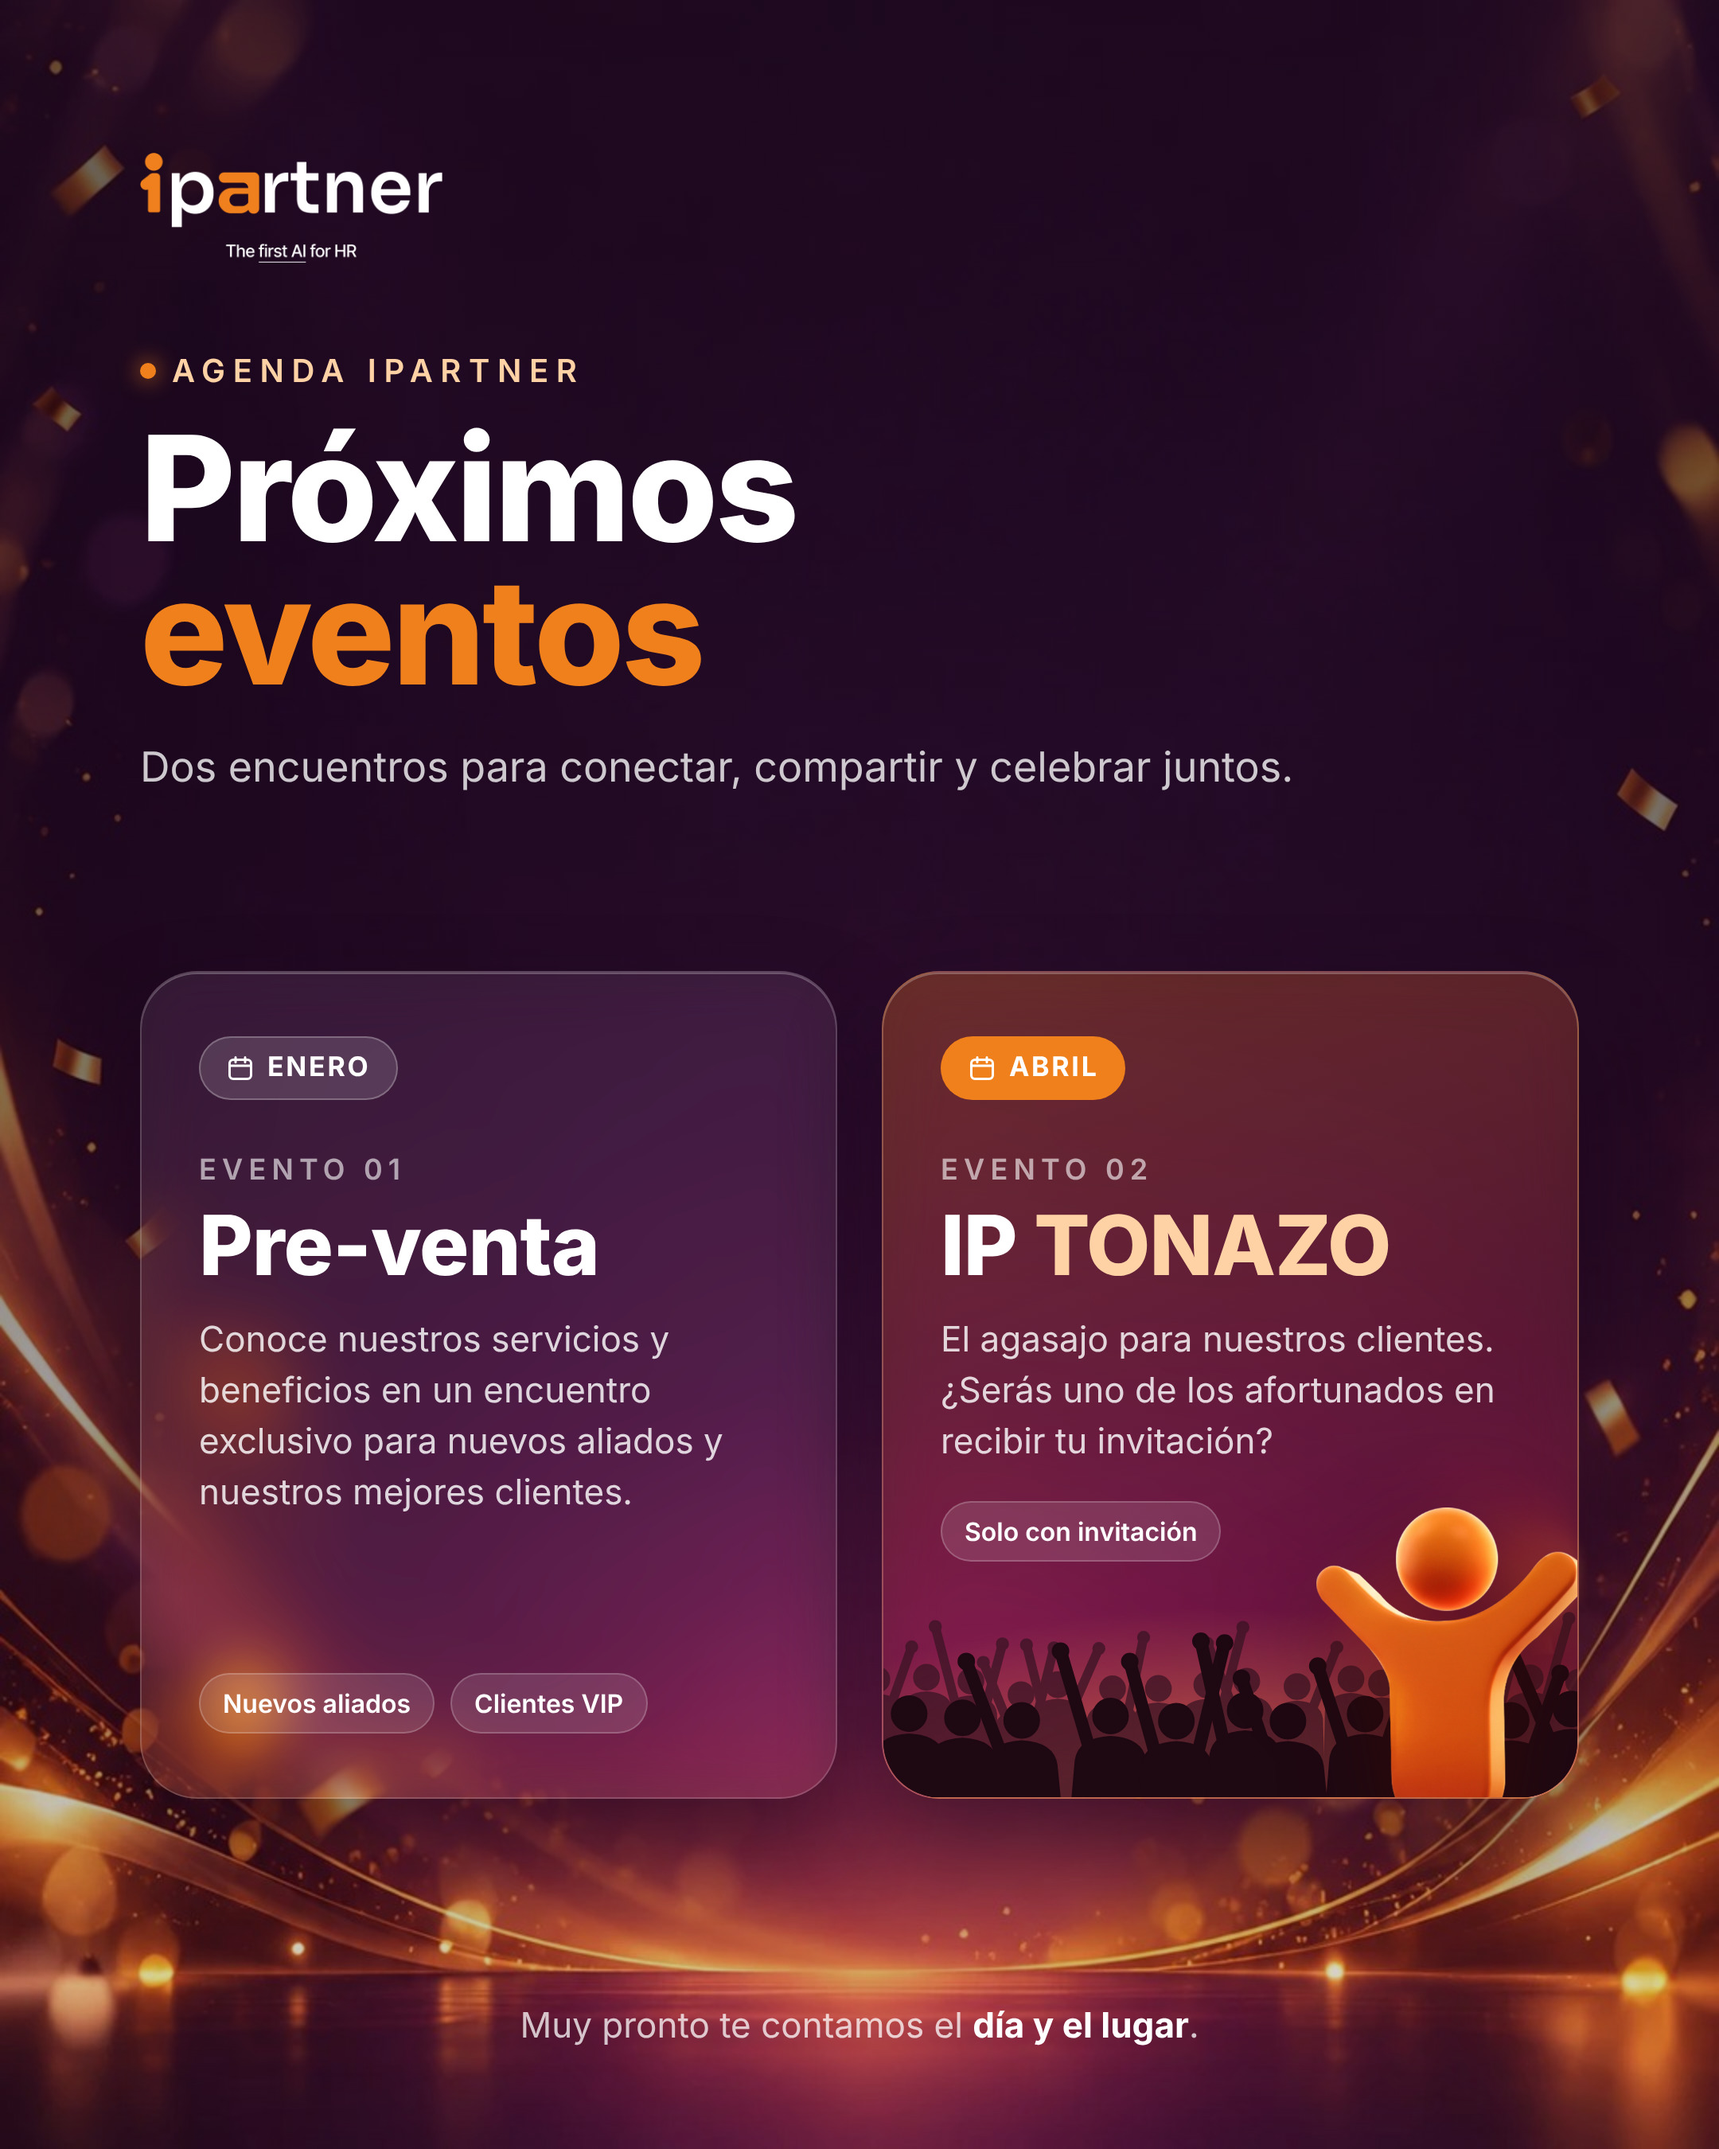
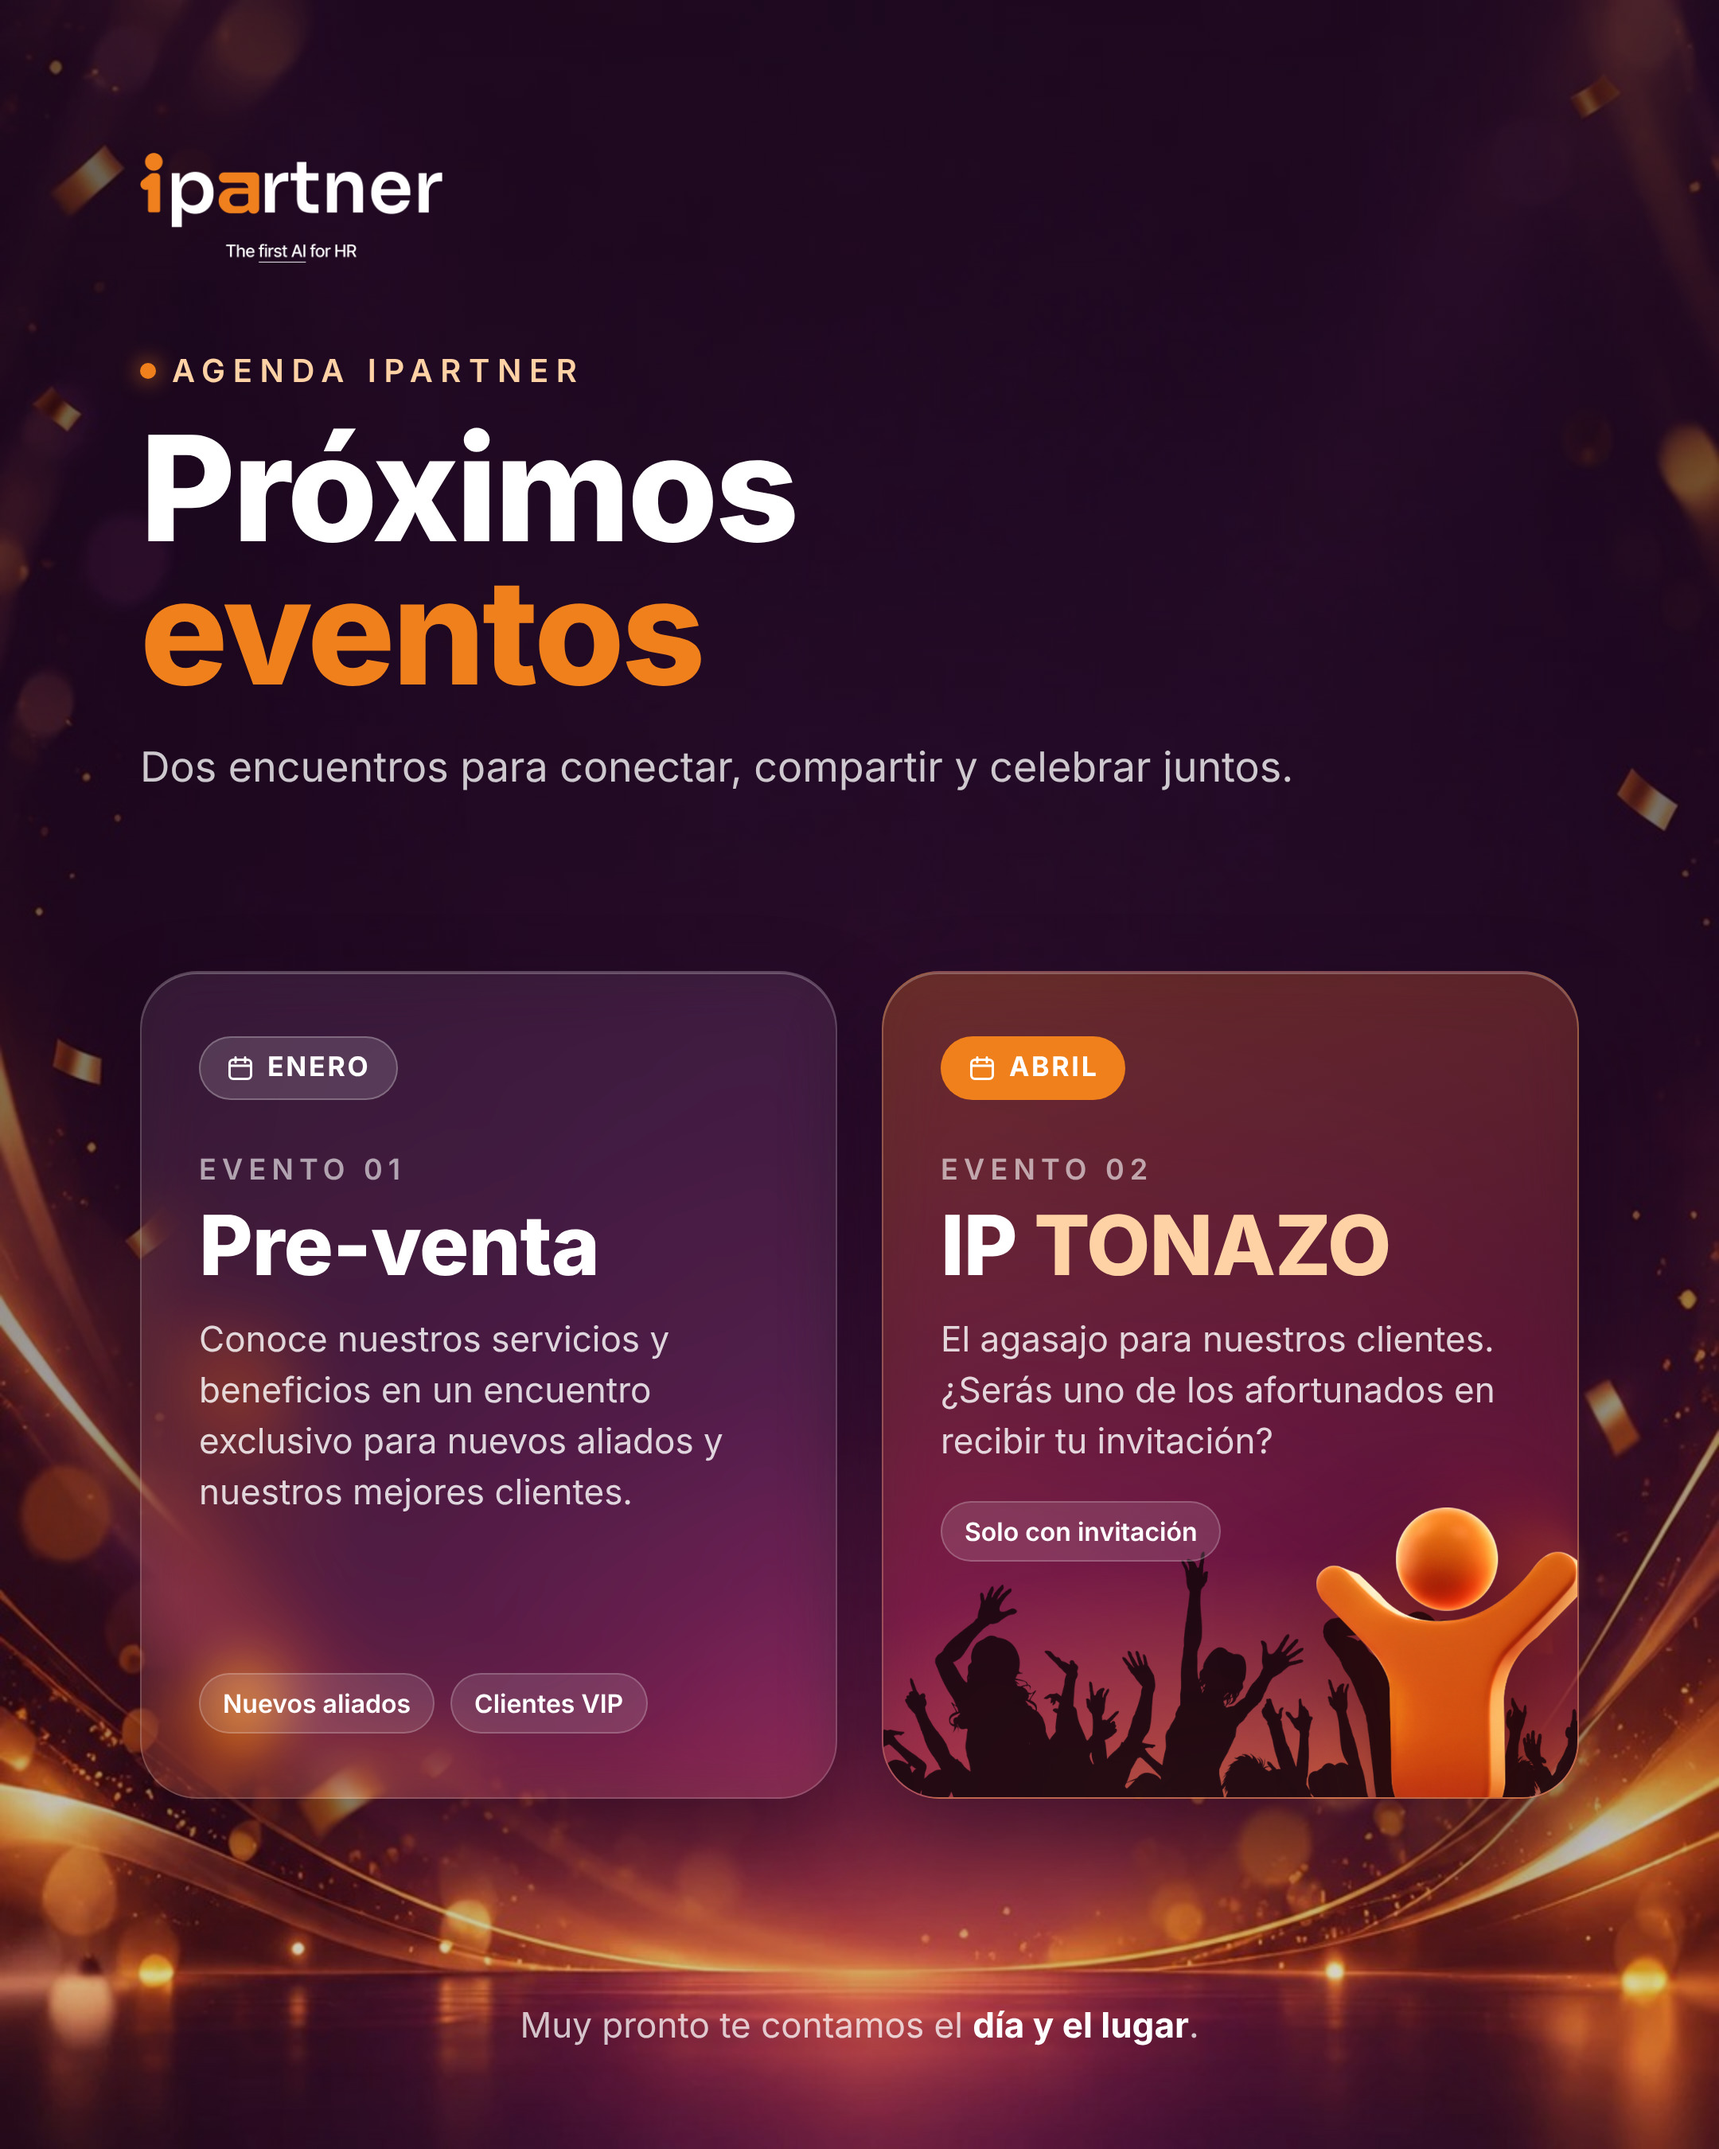
Flyer eventos: público con silueta real en IP TONAZO
Claude-Session: https://claude.ai/code/session_01KT8NTYu2Ge9wagQ7cc8Njn

Changed region(s): [[0.4963, 0.7156, 0.8065, 0.84], [0.8685, 0.7467, 0.9306, 0.84]]

diff --git a/eventos/flyer-eventos.html b/eventos/flyer-eventos.html
@@ -34,8 +34,8 @@ h2{margin-top:10px;font-size:52px;line-height:1.02;font-weight:800;letter-spacin
 .chip{font-size:16px;font-weight:600;padding:8px 14px;border-radius:999px;background:rgba(255,255,255,.12);border:1px solid rgba(255,255,255,.2)}
 .munieco{position:absolute;right:-6px;bottom:-24px;width:170px;z-index:2;filter:drop-shadow(0 20px 30px rgba(60,10,0,.5))}
 .mini{position:absolute;filter:saturate(.8) brightness(.8)}.m1{width:84px;right:196px;bottom:-10px;opacity:.5}.m2{width:70px;right:262px;bottom:-6px;opacity:.35}.m3{width:62px;right:320px;bottom:-4px;opacity:.25}.m4{width:76px;right:150px;bottom:110px;opacity:0}
-.tonazo .chips{position:static;margin-top:20px;max-width:none}
-.publico{position:absolute;left:0;right:0;bottom:0;width:100%;height:170px;z-index:1}
+.tonazo .chips{position:relative;left:auto;bottom:auto;z-index:3;margin-top:20px;max-width:none}
+.publico{position:absolute;left:0;right:0;bottom:0;height:170px;z-index:1;overflow:hidden;background:radial-gradient(70% 90% at 50% 100%,rgba(255,154,60,.45),rgba(255,154,60,0))}.publico img{position:absolute;left:-10px;bottom:-62px;width:calc(100% + 20px);opacity:.92}
 .pie{position:absolute;left:0;right:0;bottom:64px;text-align:center;font-size:22px;color:rgba(255,255,255,.75)}
 .pie b{color:#fff}
 </style></head><body>
@@ -59,11 +59,7 @@ h2{margin-top:10px;font-size:52px;line-height:1.02;font-weight:800;letter-spacin
       <h2>IP <em>TONAZO</em></h2>
       <p class="desc">El agasajo para nuestros clientes. ¿Serás uno de los afortunados en recibir tu invitación?</p>
       <div class="chips"><span class="chip">Solo con invitación</span></div>
-      <svg class="publico" viewBox="0 0 440 170" preserveAspectRatio="xMidYMax slice" aria-hidden="true">
-<defs><radialGradient id="luz" cx="50%" cy="100%" r="70%"><stop offset="0" stop-color="#ff9a3c" stop-opacity=".55"/><stop offset="1" stop-color="#ff9a3c" stop-opacity="0"/></radialGradient></defs>
-<rect width="440" height="170" fill="url(#luz)"/>
-<g fill="#3a1424" stroke="#3a1424" opacity=".75"><circle cx="-2.1" cy="96.1" r="7.9"/><path d="M-19.4 170 L-18.0 116.2 Q-16.5 106.1 -2.1 105.4 Q12.3 106.1 13.7 116.2 L15.2 170 Z"/><path d="M-12.2 109.0 L-21.5 67.0" stroke-width="5.8" stroke-linecap="round"/><circle cx="-21.5" cy="67.0" r="3.6"/><path d="M8.0 109.0 L19.8 75.6" stroke-width="5.8" stroke-linecap="round"/><circle cx="19.8" cy="75.6" r="3.6"/><circle cx="29.1" cy="94.7" r="7.9"/><path d="M11.8 170 L13.2 114.8 Q14.7 104.8 29.1 104.0 Q43.5 104.8 44.9 114.8 L46.4 170 Z"/><circle cx="57.0" cy="97.1" r="7.9"/><path d="M39.7 170 L41.2 117.3 Q42.6 107.2 57.0 106.5 Q71.4 107.2 72.9 117.3 L74.3 170 Z"/><path d="M46.9 110.1 L34.6 62.8" stroke-width="5.8" stroke-linecap="round"/><circle cx="34.6" cy="62.8" r="3.6"/><path d="M67.1 110.1 L76.8 73.7" stroke-width="5.8" stroke-linecap="round"/><circle cx="76.8" cy="73.7" r="3.6"/><circle cx="88.5" cy="105.6" r="7.9"/><path d="M71.2 170 L72.7 125.8 Q74.1 115.7 88.5 115.0 Q102.9 115.7 104.4 125.8 L105.8 170 Z"/><path d="M78.4 118.6 L64.8 85.3" stroke-width="5.8" stroke-linecap="round"/><circle cx="64.8" cy="85.3" r="3.6"/><path d="M98.6 118.6 L109.2 76.2" stroke-width="5.8" stroke-linecap="round"/><circle cx="109.2" cy="76.2" r="3.6"/><circle cx="111.6" cy="99.3" r="7.9"/><path d="M94.3 170 L95.8 119.4 Q97.2 109.3 111.6 108.6 Q126.0 109.3 127.4 119.4 L128.9 170 Z"/><path d="M101.5 112.2 L91.9 74.3" stroke-width="5.8" stroke-linecap="round"/><circle cx="91.9" cy="74.3" r="3.6"/><path d="M121.7 112.2 L137.4 76.6" stroke-width="5.8" stroke-linecap="round"/><circle cx="137.4" cy="76.6" r="3.6"/><circle cx="146.0" cy="101.9" r="7.9"/><path d="M128.7 170 L130.1 122.1 Q131.6 112.0 146.0 111.3 Q160.4 112.0 161.8 122.1 L163.3 170 Z"/><path d="M156.1 114.9 L165.5 69.6" stroke-width="5.8" stroke-linecap="round"/><circle cx="165.5" cy="69.6" r="3.6"/><circle cx="174.8" cy="101.7" r="7.9"/><path d="M157.5 170 L158.9 121.8 Q160.4 111.7 174.8 111.0 Q189.2 111.7 190.6 121.8 L192.1 170 Z"/><circle cx="205.2" cy="99.4" r="7.9"/><path d="M187.9 170 L189.3 119.5 Q190.8 109.5 205.2 108.7 Q219.6 109.5 221.0 119.5 L222.4 170 Z"/><path d="M215.2 112.3 L227.9 63.3" stroke-width="5.8" stroke-linecap="round"/><circle cx="227.9" cy="63.3" r="3.6"/><circle cx="230.3" cy="97.2" r="7.9"/><path d="M213.1 170 L214.5 117.4 Q215.9 107.3 230.3 106.6 Q244.7 107.3 246.2 117.4 L247.6 170 Z"/><path d="M220.3 110.2 L205.6 73.4" stroke-width="5.8" stroke-linecap="round"/><circle cx="205.6" cy="73.4" r="3.6"/><circle cx="261.9" cy="100.5" r="7.9"/><path d="M244.6 170 L246.1 120.7 Q247.5 110.6 261.9 109.9 Q276.3 110.6 277.7 120.7 L279.2 170 Z"/><path d="M272.0 113.5 L286.9 75.9" stroke-width="5.8" stroke-linecap="round"/><circle cx="286.9" cy="75.9" r="3.6"/><circle cx="295.8" cy="95.7" r="7.9"/><path d="M278.5 170 L279.9 115.8 Q281.4 105.7 295.8 105.0 Q310.2 105.7 311.6 115.8 L313.0 170 Z"/><circle cx="315.0" cy="98.3" r="7.9"/><path d="M297.7 170 L299.1 118.5 Q300.6 108.4 315.0 107.7 Q329.4 108.4 330.8 118.5 L332.3 170 Z"/><circle cx="347.1" cy="105.8" r="7.9"/><path d="M329.8 170 L331.2 125.9 Q332.7 115.9 347.1 115.1 Q361.5 115.9 362.9 125.9 L364.3 170 Z"/><path d="M337.0 118.7 L321.7 76.0" stroke-width="5.8" stroke-linecap="round"/><circle cx="321.7" cy="76.0" r="3.6"/><path d="M357.1 118.7 L373.3 80.7" stroke-width="5.8" stroke-linecap="round"/><circle cx="373.3" cy="80.7" r="3.6"/><circle cx="379.3" cy="101.4" r="7.9"/><path d="M362.1 170 L363.5 121.5 Q364.9 111.5 379.3 110.7 Q393.7 111.5 395.2 121.5 L396.6 170 Z"/><path d="M369.3 114.3 L353.7 80.7" stroke-width="5.8" stroke-linecap="round"/><circle cx="353.7" cy="80.7" r="3.6"/><path d="M389.4 114.3 L398.9 77.1" stroke-width="5.8" stroke-linecap="round"/><circle cx="398.9" cy="77.1" r="3.6"/><circle cx="408.4" cy="95.0" r="7.9"/><path d="M391.1 170 L392.5 115.2 Q394.0 105.1 408.4 104.4 Q422.8 105.1 424.2 115.2 L425.6 170 Z"/><path d="M418.4 108.0 L432.7 57.7" stroke-width="5.8" stroke-linecap="round"/><circle cx="432.7" cy="57.7" r="3.6"/><circle cx="438.9" cy="97.7" r="7.9"/><path d="M421.6 170 L423.0 117.8 Q424.5 107.7 438.9 107.0 Q453.3 107.7 454.7 117.8 L456.1 170 Z"/></g>
-<g fill="#1e0812" stroke="#1e0812"><circle cx="18.2" cy="117.5" r="11.0"/><path d="M-5.8 170 L-3.8 145.5 Q-1.8 131.5 18.2 130.5 Q38.2 131.5 40.2 145.5 L42.2 170 Z"/><circle cx="51.7" cy="120.1" r="11.0"/><path d="M27.7 170 L29.7 148.1 Q31.7 134.1 51.7 133.1 Q71.7 134.1 73.7 148.1 L75.7 170 Z"/><circle cx="88.9" cy="121.7" r="11.0"/><path d="M64.9 170 L66.9 149.7 Q68.9 135.7 88.9 134.7 Q108.9 135.7 110.9 149.7 L112.9 170 Z"/><path d="M74.9 139.7 L54.1 84.7" stroke-width="8.0" stroke-linecap="round"/><circle cx="54.1" cy="84.7" r="5.0"/><circle cx="144.7" cy="119.0" r="11.0"/><path d="M120.7 170 L122.7 147.0 Q124.7 133.0 144.7 132.0 Q164.7 133.0 166.7 147.0 L168.7 170 Z"/><path d="M130.7 137.0 L113.3 78.2" stroke-width="8.0" stroke-linecap="round"/><circle cx="113.3" cy="78.2" r="5.0"/><circle cx="186.1" cy="122.2" r="11.0"/><path d="M162.1 170 L164.1 150.2 Q166.1 136.2 186.1 135.2 Q206.1 136.2 208.1 150.2 L210.1 170 Z"/><path d="M172.1 140.2 L156.8 84.8" stroke-width="8.0" stroke-linecap="round"/><circle cx="156.8" cy="84.8" r="5.0"/><path d="M200.1 140.2 L216.4 73.1" stroke-width="8.0" stroke-linecap="round"/><circle cx="216.4" cy="73.1" r="5.0"/><circle cx="229.3" cy="115.5" r="11.0"/><path d="M205.3 170 L207.3 143.5 Q209.3 129.5 229.3 128.5 Q249.3 129.5 251.3 143.5 L253.3 170 Z"/><path d="M215.3 133.5 L201.5 72.0" stroke-width="8.0" stroke-linecap="round"/><circle cx="201.5" cy="72.0" r="5.0"/><circle cx="256.2" cy="122.3" r="11.0"/><path d="M232.2 170 L234.2 150.3 Q236.2 136.3 256.2 135.3 Q276.2 136.3 278.2 150.3 L280.2 170 Z"/><path d="M242.2 140.3 L227.0 95.2" stroke-width="8.0" stroke-linecap="round"/><circle cx="227.0" cy="95.2" r="5.0"/><circle cx="304.7" cy="117.7" r="11.0"/><path d="M280.7 170 L282.7 145.7 Q284.7 131.7 304.7 130.7 Q324.7 131.7 326.7 145.7 L328.7 170 Z"/><path d="M290.7 135.7 L274.9 87.6" stroke-width="8.0" stroke-linecap="round"/><circle cx="274.9" cy="87.6" r="5.0"/><path d="M318.7 135.7 L341.0 66.9" stroke-width="8.0" stroke-linecap="round"/><circle cx="341.0" cy="66.9" r="5.0"/><circle cx="350.5" cy="121.4" r="11.0"/><path d="M326.5 170 L328.5 149.4 Q330.5 135.4 350.5 134.4 Q370.5 135.4 372.5 149.4 L374.5 170 Z"/><circle cx="396.4" cy="121.8" r="11.0"/><path d="M372.4 170 L374.4 149.8 Q376.4 135.8 396.4 134.8 Q416.4 135.8 418.4 149.8 L420.4 170 Z"/><path d="M382.4 139.8 L360.8 85.0" stroke-width="8.0" stroke-linecap="round"/><circle cx="360.8" cy="85.0" r="5.0"/><path d="M410.4 139.8 L427.2 92.2" stroke-width="8.0" stroke-linecap="round"/><circle cx="427.2" cy="92.2" r="5.0"/><circle cx="434.1" cy="114.6" r="11.0"/><path d="M410.1 170 L412.1 142.6 Q414.1 128.6 434.1 127.6 Q454.1 128.6 456.1 142.6 L458.1 170 Z"/><path d="M420.1 132.6 L396.3 76.6" stroke-width="8.0" stroke-linecap="round"/><circle cx="396.3" cy="76.6" r="5.0"/><path d="M448.1 132.6 L461.5 72.6" stroke-width="8.0" stroke-linecap="round"/><circle cx="461.5" cy="72.6" r="5.0"/></g></svg>
+      <div class="publico"><img src="assets/publico.png" alt=""></div>
       <img class="munieco" src="assets/munieco.png" alt="">
     </article>
   </div>
